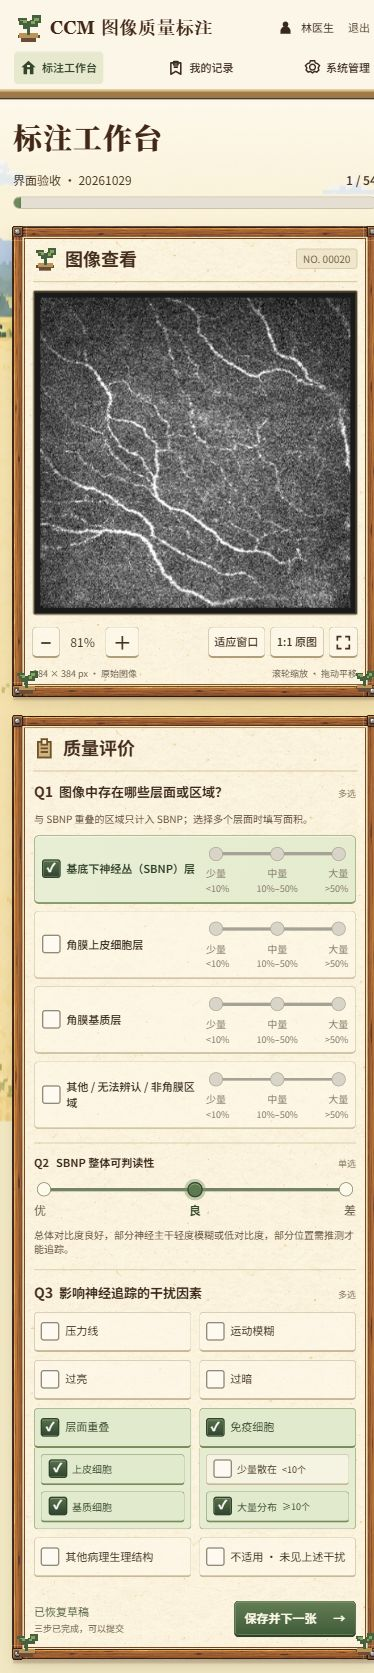
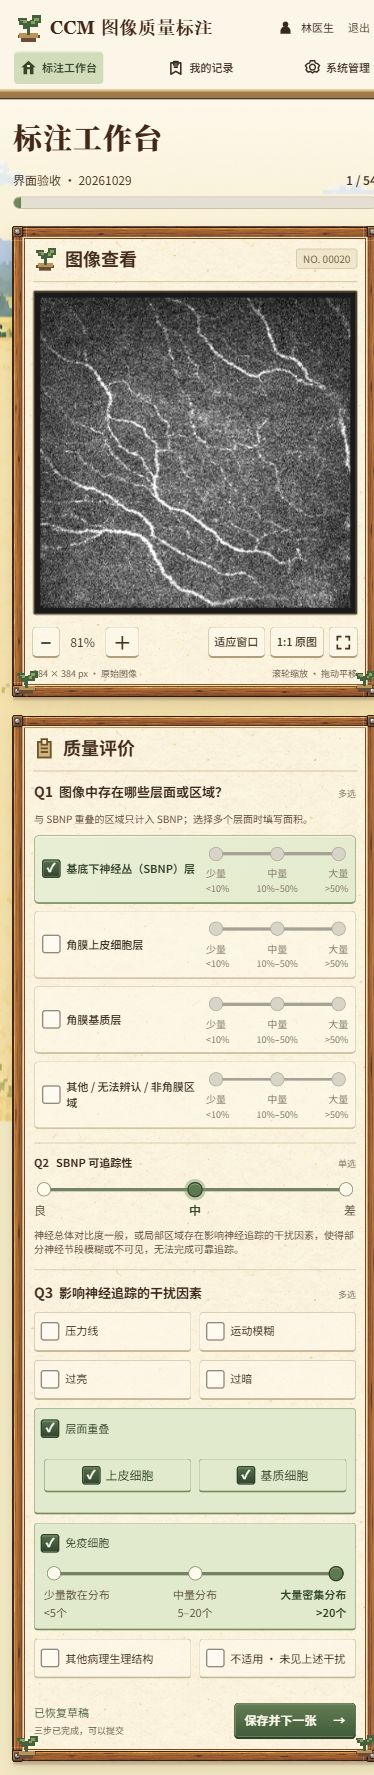
Keep Q3 suboptions inline and use an immune count slider

diff --git a/static/app.js b/static/app.js
@@ -64,21 +64,23 @@ function loadTask(task) {
   $('#specimen').src=task.image_url+`?revision=${task.revision}`;
   renderQuestions(); updateSubmit();
 }
-function slotControl(key, options, value, disabled=false, area=null) {
+function slotControl(key, options, value, disabled=false, area=null, group=null) {
   const index=options.findIndex(x=>x.id===value);
-  const title=area?`${state.rules.layers.find(l=>l.id===area).name}面积`:'Q2 SBNP 可追踪性';
-  return `<div class="slot-control ${disabled?'disabled':''} ${index<0?'unset':''}" style="--slots:${options.length}"><div class="slot-track"><input type="range" min="0" max="${options.length-1}" step="1" value="${Math.max(0,index)}" data-key="${key}" ${area?`data-area="${area}"`:''} aria-label="${esc(title)}" aria-valuetext="${index<0?'待选择':esc(options[index].name)}" ${disabled?'disabled':''}><div class="slot-dots" aria-hidden="true">${options.map((_,i)=>`<i style="--stop:${i}" class="${i===index?'chosen':''}"></i>`).join('')}</div></div><div class="slot-labels">${options.map(o=>`<button type="button" data-slot="${o.id}" data-key="${key}" ${area?`data-area="${area}"`:''} class="${value===o.id?'selected':''}" ${disabled?'disabled':''} aria-label="${esc(title+'：'+o.name+(o.detail?' '+o.detail:''))}" aria-pressed="${value===o.id}"><strong>${esc(o.name)}</strong>${o.detail?`<small>${esc(o.detail)}</small>`:''}</button>`).join('')}</div></div>`;
+  const title=area?`${state.rules.layers.find(l=>l.id===area).name}面积`:group?`Q3 ${state.rules.q3.find(o=>o.id===group).name}数量`:'Q2 SBNP 可追踪性';
+  const scope=area?`data-area="${area}"`:group?`data-group="${group}"`:'';
+  return `<div class="slot-control ${disabled?'disabled':''} ${index<0?'unset':''}" style="--slots:${options.length}"><div class="slot-track"><input type="range" min="0" max="${options.length-1}" step="1" value="${Math.max(0,index)}" data-key="${key}" ${scope} aria-label="${esc(title)}" aria-valuetext="${index<0?'待选择':esc(options[index].name+(options[index].detail?' '+options[index].detail:''))}" ${disabled?'disabled':''}><div class="slot-dots" aria-hidden="true">${options.map((_,i)=>`<i style="--stop:${i}" class="${i===index?'chosen':''}"></i>`).join('')}</div></div><div class="slot-labels">${options.map(o=>`<button type="button" data-slot="${o.id}" data-key="${key}" ${scope} class="${value===o.id?'selected':''}" ${disabled?'disabled':''} aria-label="${esc(title+'：'+o.name+(o.detail?' '+o.detail:''))}" aria-pressed="${value===o.id}"><strong>${esc(o.name)}</strong>${o.detail?`<small>${esc(o.detail)}</small>`:''}</button>`).join('')}</div></div>`;
 }
 function renderQuestions() {
   const labels=state.labels, rules=state.rules, keys=Object.keys(labels.q1), applicable=CCMForm.applicable(labels);
   const disabled=!applicable, interference=labels.q3 || [];
   const skipped=keys.length?'已跳过 · Q1 包含非 SBNP 层面或区域':'先完成 Q1';
   const details=(option)=>{
-    if(!option.options || !interference.includes(option.id) || disabled) return '';
-    return `<div class="factor-details" data-detail-group="${option.id}" role="group" aria-label="${esc(option.name)}细分">${option.options.map(sub=>{
-      const selected=option.multiple?(labels.q3_details.e || []).includes(sub.id):labels.q3_details.f===sub.id;
-      return `<button type="button" class="choice detail-choice ${selected?'selected':''}" data-detail="${sub.id}" data-group="${option.id}" aria-pressed="${selected}">${esc(sub.name)}${sub.detail?` <span>${esc(sub.detail)}</span>`:''}</button>`;
-    }).join('')}</div>`;
+    if(!option.options) return '';
+    const controls=option.multiple?option.options.map(sub=>{
+      const selected=(labels.q3_details[option.id] || []).includes(sub.id);
+      return `<button type="button" class="choice detail-choice ${selected?'selected':''}" data-detail="${sub.id}" data-group="${option.id}" aria-pressed="${selected}" ${disabled?'disabled':''}>${esc(sub.name)}</button>`;
+    }).join(''):slotControl('q3',option.options,labels.q3_details[option.id],disabled,null,option.id);
+    return `<div class="factor-controls" role="group" aria-label="${esc(option.name)}细分">${controls}</div>`;
   };
   $('#questions').innerHTML=`<section class="question q1-question">
     <div class="question-title"><span class="q-number">Q1</span><h2>图像中存在哪些层面或区域？</h2><small>多选</small></div>
@@ -92,7 +94,7 @@ function renderQuestions() {
   <section class="question q3-question ${disabled?'disabled':''}">
     <div class="question-title"><span class="q-number">Q3</span><h2>影响神经追踪的干扰因素</h2><small>${disabled?'不适用':'多选'}</small></div>
     ${disabled?`<p class="skip-note">${skipped}</p>`:''}
-    <div class="q3-grid">${rules.q3.map(o=>`<div class="factor-card ${interference.includes(o.id)?'selected':''}"><button type="button" class="choice ${interference.includes(o.id)?'selected':''}" data-interference="${o.id}" aria-pressed="${interference.includes(o.id)}" title="${esc(o.hint)}" ${disabled?'disabled':''}>${esc(o.name)}</button>${details(o)}</div>`).join('')}</div>
+    <div class="q3-grid">${rules.q3.map(o=>`<div class="factor-card ${o.options?'has-options':''} ${interference.includes(o.id)?'selected':''}"><button type="button" class="choice ${interference.includes(o.id)?'selected':''}" data-interference="${o.id}" aria-pressed="${interference.includes(o.id)}" title="${esc(o.hint)}" ${disabled?'disabled':''}>${esc(o.name)}</button>${details(o)}</div>`).join('')}</div>
   </section>`;
 }
 function formProblem() {
@@ -135,9 +137,10 @@ $('#questions').addEventListener('click',event=>{
     CCMForm.toggleLayer(state.labels,key);
     changed(`[data-layer="${key}"]`);
   } else if(button.dataset.slot) {
-    const {key,slot,area}=button.dataset;
-    if(area) state.labels.q1[area]=slot; else state.labels[key]=slot;
-    changed(`[data-key="${key}"][data-slot="${slot}"]${area?`[data-area="${area}"]`:''}`);
+    const {key,slot,area,group}=button.dataset;
+    if(group) CCMForm.toggleDetail(state.labels,group,slot);
+    else if(area) state.labels.q1[area]=slot; else state.labels[key]=slot;
+    changed(`[data-key="${key}"][data-slot="${slot}"]${area?`[data-area="${area}"]`:group?`[data-group="${group}"]`:''}`);
   } else if(button.dataset.interference) {
     const value=button.dataset.interference;
     CCMForm.toggleInterference(state.labels,value);
@@ -150,10 +153,13 @@ $('#questions').addEventListener('click',event=>{
 });
 $('#questions').addEventListener('change',event=>{
   const input=event.target;
-  if(input.type!=='range' || state.busy) return;
-  const {key,area}=input.dataset, value=(area?state.rules.areas:state.rules[key])[Number(input.value)].id;
-  if(area) state.labels.q1[area]=value; else state.labels[key]=value;
-  changed(`input[data-key="${key}"]${area?`[data-area="${area}"]`:''}`);
+  if(input.type!=='range' || input.disabled || state.busy) return;
+  const {key,area,group}=input.dataset;
+  const options=group?state.rules.q3.find(o=>o.id===group).options:area?state.rules.areas:state.rules[key];
+  const value=options[Number(input.value)].id;
+  if(group) CCMForm.toggleDetail(state.labels,group,value);
+  else if(area) state.labels.q1[area]=value; else state.labels[key]=value;
+  changed(`input[data-key="${key}"]${area?`[data-area="${area}"]`:group?`[data-group="${group}"]`:''}`);
 });
 $('#questions').addEventListener('keydown',event=>{
   // Enter/Space explicitly choose the current range position, including an unset first slot.

diff --git a/static/theme.css b/static/theme.css
@@ -327,14 +327,22 @@ progress::-moz-progress-bar { background:#638c57; }
 .q2-question .grade-box { display:grid; grid-template-columns:minmax(0,1fr) minmax(0,1.25fr); align-items:center; gap:22px; }
 .q2-question .grade-hint { margin:0; min-height:0; font-size:12px; color:#654f35; }
 .q2-question .slot-labels button strong { font-size:15px; }
-.q3-grid { display:grid; grid-template-columns:1fr 1fr; align-items:start; gap:8px; }
+.q3-grid { display:grid; grid-template-columns:1fr 1fr; align-items:stretch; gap:8px; }
 .q3-grid>.factor-card>.choice { width:100%; min-height:42px; }
 .factor-card.selected { background:#e5edcf; border-radius:4px; }
-.factor-details { display:flex; flex-wrap:wrap; gap:6px; padding:8px; border:1px solid #8aa46c; border-top:0; border-radius:0 0 4px 4px; }
-.factor-details[data-detail-group="f"] { flex-direction:column; }
-.q3-grid .detail-choice { flex:1 1 auto; font-size:12px; min-height:34px; padding:5px 7px; gap:5px; }
+.factor-card.has-options { display:flex; flex-direction:column; min-width:0; border:1px solid #cebd9b; border-bottom:2px solid #ccb892; border-radius:4px; background:#fff8e8a6; }
+.factor-card.has-options.selected { background:#e0ebca; border-color:#8aa46c; border-bottom-color:#718d55; }
+.q3-grid>.factor-card.has-options>.choice { border:0; background:none; box-shadow:none; }
+.factor-controls { display:flex; align-items:center; gap:7px; padding:0 10px 10px; flex:1; min-height:67px; }
+.factor-controls>.slot-control { width:100%; }
+.q3-grid .detail-choice { flex:1; justify-content:center; font-size:13px; min-height:36px; padding:5px 7px; gap:5px; }
 .q3-grid .detail-choice:before { width:16px; height:16px; font-size:12px; line-height:13px; }
-.detail-choice span { font-size:11px; white-space:nowrap; }
+.factor-controls .slot-labels { display:grid; grid-template-columns:repeat(var(--slots),minmax(0,1fr)); gap:4px; }
+.factor-controls .slot-labels button { white-space:normal; }
+.factor-controls .slot-labels button strong { display:block; font-size:11px; line-height:1.5; }
+.factor-controls .slot-labels button small { display:block; font-size:11px; }
+.factor-controls .slot-labels button small:before { content:''; }
+.q3-question.disabled .factor-card.has-options { background:#ece6d7; border-color:#cec3ac; }
 .q3-question.disabled .choice { opacity:1; background:#ece6d7; color:#7e7360; border-color:#cec3ac; }
 .q3-question.disabled .choice:before { background:#ddd7c9; border-color:#aaa18e; }
 .skip-note { font-size:12px; color:#746248; margin:0 0 9px; }
@@ -344,7 +352,7 @@ progress::-moz-progress-bar { background:#638c57; }
   .q2-question .grade-hint { font-size:10px; }
   .q2-question .slot-labels button strong { font-size:12px; }
   .q3-grid>.factor-card>.choice { font-size:11px; min-height:40px; }
-  .q3-grid .detail-choice { font-size:10px; min-height:30px; }
-  .detail-choice span { font-size:9px; }
-  .factor-details { padding:6px; }
+  .factor-card.has-options { grid-column:1 / -1; }
+  .q3-grid .detail-choice { font-size:12px; min-height:34px; }
+  .factor-controls { padding:0 9px 9px; min-height:64px; }
 }

diff --git a/static/annotation-form.js b/static/annotation-form.js
@@ -28,7 +28,8 @@
     reconcile(labels);
   }
   function toggleDetail(labels, group, value) {
-    if(!applicable(labels) || !labels.q3.includes(group)) return;
+    if(!applicable(labels)) return;
+    if(!labels.q3.includes(group)) toggleInterference(labels,group);
     if(group==='e') {
       const current = labels.q3_details.e || [];
       labels.q3_details.e = current.includes(value) ? current.filter(x=>x!==value) : [...current,value];

diff --git a/README.md b/README.md
@@ -11,7 +11,7 @@
 - 管理员指定服务器图像目录，递归扫描、校验并导入；启用不同图像集。
 - 管理员创建标注员、停用/启用账号、重置密码、查看累计提交量。
 - 独立随机任务顺序、服务器草稿自动保存、刷新恢复、提交后自动下一张。
-- 左侧原图缩放/平移/全屏；右侧 Q1 四行层面选项、Q2 三档滑杆、Q3 双列干扰因素与细分选项。
+- 左侧原图缩放/平移/全屏；右侧 Q1 四行层面选项、Q2 三档滑杆、Q3 双列干扰因素。Q3 子选项常驻同一选项卡内部：层面重叠为两个多选控件，免疫细胞为三档滑杆，不再展开额外区域。直接操作子选项会自动选中对应干扰因素。
 - **Q1 只有 a（SBNP）时 Q2/Q3 可用**；包含 b/c/d 时跳过两题，保存 `q2="n"`、`q3=null`。切回纯 SBNP 后必须重新填写。SBNP 与相邻层面重叠的区域在 Q1 中只计为 SBNP，重叠类型在 Q3 中记录。
 - Q1 仅多选时要求每个层面的面积；单选面积存为 `null`，不会自动推定为“大量”。Q2 评价 SBNP 可追踪性，分为良／中／差。Q3 的 `n` 与其他干扰互斥；层面重叠可同时选择上皮和基质，免疫细胞数量必须在 `<5`、`5–20`、`>20` 中单选，其中中量包含 5 个和 20 个。
 - 最近 100 条正式记录可回看修改；修改前后的正式版本均保留。

diff --git a/design/VALIDATION.md b/design/VALIDATION.md
@@ -2,6 +2,14 @@
 
 日期：2026-10-29。正式标注数据未参与验收，浏览器使用本机临时数据库与测试图像。
 
+## Q3 子选项内嵌交互
+
+子选项常驻所属选项卡内部，勾选/取消时卡片不展开。层面重叠使用上皮、基质多选控件；免疫细胞使用与 Q2 共用的三档滑杆，并显示完整名称和数量范围。直接选择子选项会选中父项并取消“不适用”；取消父项仍清除其细分答案。规则与保存结构不变，版本保持 `20261029-r3`。
+
+本地执行前端联动测试 **7 项通过**，`static/app.js` 语法检查通过，不重复后端测试。浏览器验证直接双选、滑杆 Enter/方向键与档位点击、草稿保存恢复；两张卡片操作前后均为 114.56px 高，未出现展开。390px 窄屏页面及控件无横向溢出。桌面、移动端截图均已更新为本次实现。
+
+以下为历史版本的验收记录，旧截图内容描述仅对应当时版本。
+
 ## 同日规则修订 20261029-r3
 
 免疫细胞改为三档单选：f1 少量散在分布 `<5个`、f2 中量分布 `5–20个`（含端点）、f3 大量密集分布 `>20个`。界面将三档纵向排列，保留完整名称和数量范围；旧版 f2 不自动转换为新版答案。
